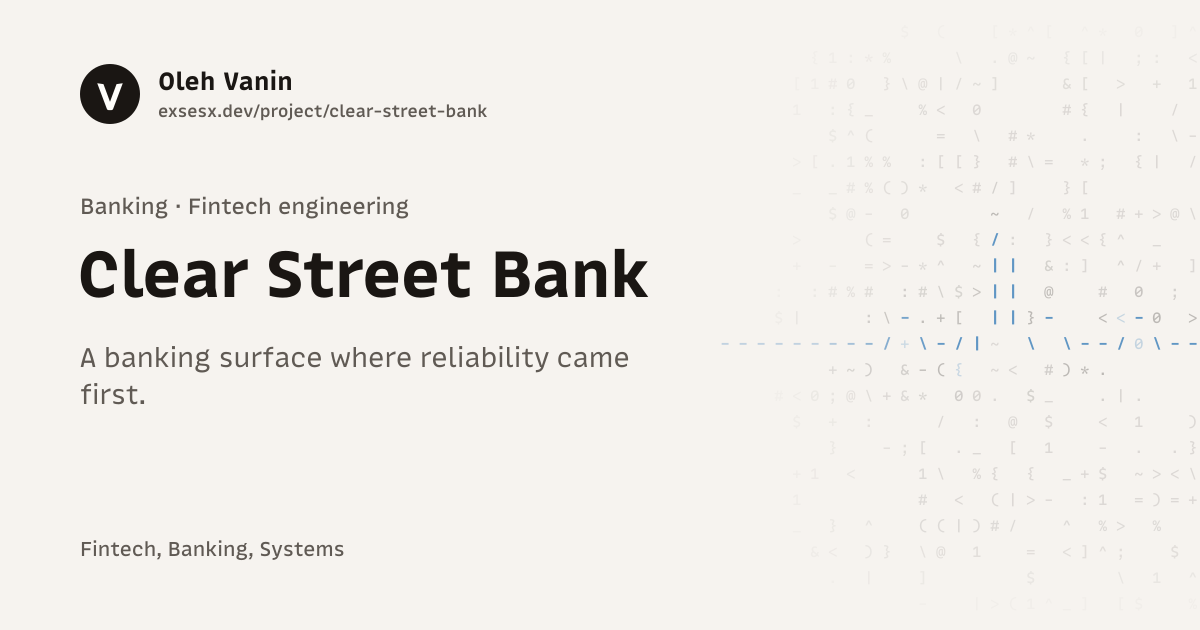
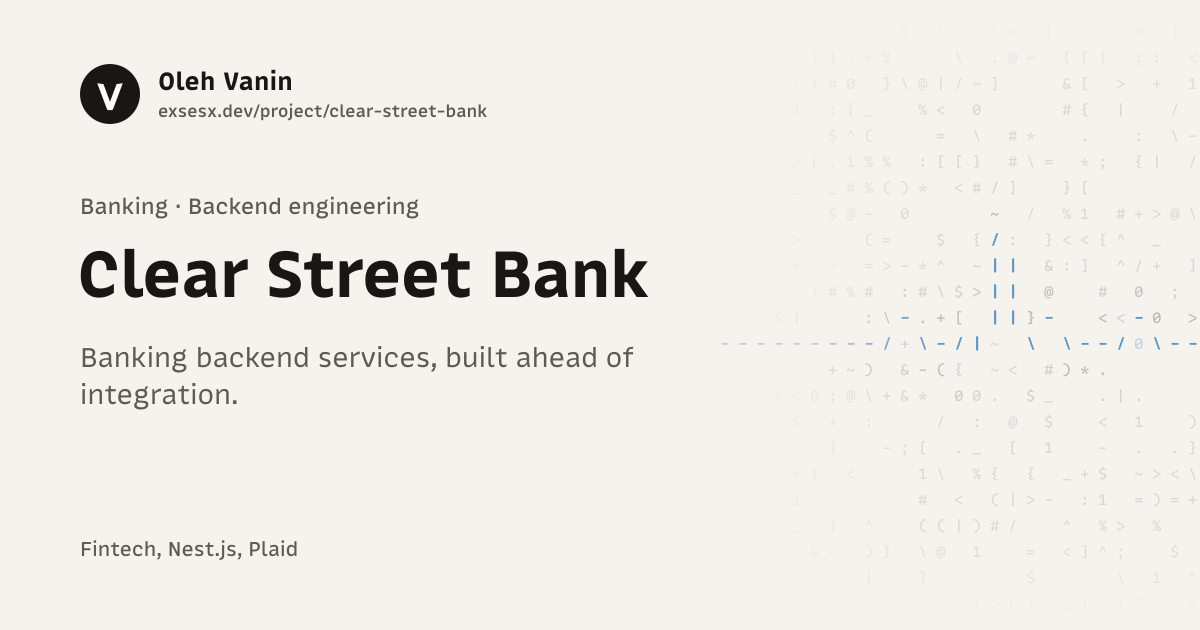
fix: tighten mobile mastheads and trim project copy
- mobile masthead padding goes from pt-52 to pt-36 on home and projects
- rewrite the Clear Street Bank entry from owner-supplied facts, with
  one confidentiality line
- drop CoinMENA bullets that restated its outcome and other filler

Changed region(s): [[0.0617, 0.5429, 0.5242, 0.6635], [0.1542, 0.3016, 0.37, 0.3619], [0.1233, 0.8444, 0.2775, 0.9048]]

diff --git a/src/lib/projects.ts b/src/lib/projects.ts
@@ -129,7 +129,7 @@ export const projects: Project[] = [
         "Led a cross-functional team of about 7 to 9 while staying hands-on, setting priorities with the CTO and coordinating delivery with the PM. Later, as a consultant, documented the migration in phases across off-hours windows, with cutover failure scenarios and mitigations, and presented it to the team.",
       ],
       outcome:
-        "A live commerce system where a bad architecture call would have hit real kitchens, drivers, and payments.",
+        "A live commerce system where a bad architecture call would have hit the kitchens, drivers, and payments.",
       scope: ["Solution architecture", "Team leadership", "Preview environments", "Delivery operations"],
     },
     accent: "rose",
@@ -143,25 +143,22 @@ export const projects: Project[] = [
     id: "project-clear-street-bank",
     slug: "clear-street-bank",
     name: "Clear Street Bank",
-    role: "Fintech engineering",
+    role: "Backend engineering",
     // No stable public URL for the product I worked on.
     href: null,
     period: "Banking",
-    description:
-      "Banking product work where reliability and restraint mattered more than flash. The specifics stay private.",
-    impact: "Fintech-facing product engineering; the details are confidential.",
-    tags: ["Fintech", "Banking", "Systems"],
+    description: "Backend work on a banking product, built against other teams' contracts. The specifics stay private.",
+    impact: "Nest.js microservices and the business logic around a Plaid integration.",
+    tags: ["Fintech", "Nest.js", "Plaid"],
     detail: {
-      headline: "A banking surface where reliability came first.",
-      context:
-        "I can't say much about the specifics, but it was the same careful product engineering any banking surface needs.",
+      headline: "Banking backend services, built ahead of integration.",
+      context: "I was on a team of backend engineers. Most of my work was in Nest.js microservices.",
       contribution: [
-        "Built fintech-facing product surfaces with reliability and restraint as the defaults.",
-        "Kept the implementation practical: clear surfaces, real service detail, low-noise UX.",
-        "Stayed inside what I can share publicly without touching confidential specifics.",
+        "Implemented contracts from other teams before the integration, which happened later.",
+        "Integrated Plaid and wrote the business logic around Plaid and the other services.",
       ],
-      outcome: "Solid banking product work that I keep deliberately light on public detail.",
-      scope: ["Fintech product UI", "Confidential delivery", "Service reliability"],
+      outcome: "I assembled the pieces against agreed contracts and schemas rather than live counterparts.",
+      scope: ["Nest.js microservices", "Plaid integration", "Contract-first services"],
     },
     accent: "steel",
     media: {
@@ -189,11 +186,9 @@ export const projects: Project[] = [
       contribution: [
         "Built the asynchronous frontend architecture for real-time verification, so verification status and updates reached users as they happened.",
         "Delivered the functionality required for regulatory certification by the deadline.",
-        "Worked in a regulated setting where correctness and timing were both business-critical.",
-        "Adapted fast as requirements shifted on the way to a key certification milestone.",
       ],
       outcome:
-        "Met a critical regulatory certification deadline, clearing the way for operations across the MENA region.",
+        "Verification status reached users as it happened, and the certification functionality shipped by the deadline.",
       scope: ["Async frontend architecture", "Real-time verification", "Regulated crypto"],
     },
     accent: "mint",
@@ -255,7 +250,7 @@ export const projects: Project[] = [
         "Exposed PostgreSQL stored procedures as GraphQL APIs with PostGraphQL, so the React frontend could query them directly.",
         "Turned utility-management requirements into maintainable frontend screens.",
       ],
-      outcome: "A frontend and data-layer move that kept the live product working for everyday users.",
+      outcome: "A frontend and data-layer move that kept the live product working.",
       scope: ["AngularJS to React", "PostGraphQL APIs", "Utility operations"],
     },
     accent: "violet",

diff --git a/src/app/(site)/page.tsx b/src/app/(site)/page.tsx
@@ -45,7 +45,7 @@ const experienceHighlights = [
     role: "Solution architecture and full-stack delivery",
     period: "2021 – 2026",
     detail:
-      "Led Tso 3.0's technical direction and cross-functional team while staying hands-on. Built isolated branch previews so the CTO, QA, and PM could validate changes before merge.",
+      "Led Tso 3.0's technical direction and cross-functional team. Built isolated branch previews so the CTO, QA, and PM could validate changes before merge.",
   },
   {
     company: "S-PRO",
@@ -192,7 +192,7 @@ export default function HomePage() {
             header's first 64px, and the trace leaves the headline's pulse mark. */}
         <section aria-labelledby="hero-title" className="relative isolate" data-ascii-host="">
           <AsciiField className="absolute inset-x-0 top-16 bottom-0 -z-10" />
-          <Container className="pb-section-s pt-52 lg:grid lg:grid-cols-12 lg:gap-x-8 lg:pt-32">
+          <Container className="pb-section-s pt-36 lg:grid lg:grid-cols-12 lg:gap-x-8 lg:pt-32">
             <div className="min-w-0 lg:col-span-7">
               <h1
                 id="hero-title"
@@ -356,7 +356,7 @@ export default function HomePage() {
           <Container className="grid gap-12 lg:grid-cols-12 lg:gap-x-8">
             <div className="lg:col-span-5">
               <h2 id="experience-title" className="section-title max-w-[22ch] lg:sticky lg:top-32">
-                Recent roles and what I did in each
+                Recent roles
               </h2>
             </div>
             <ol className="border-t border-border lg:col-span-7">

diff --git a/src/app/(site)/projects/page.tsx b/src/app/(site)/projects/page.tsx
@@ -88,7 +88,7 @@ export default function Projects() {
             title stays on one line so the first rows of the list still reach the fold. */}
         <header className="relative isolate" data-ascii-host="">
           <AsciiField className="absolute inset-x-0 top-16 bottom-0 -z-10" />
-          <Container className="grid gap-8 pb-section-s pt-52 lg:grid-cols-12 lg:gap-x-8 lg:pt-32">
+          <Container className="grid gap-8 pb-section-s pt-36 lg:grid-cols-12 lg:gap-x-8 lg:pt-32">
             <div className="min-w-0 lg:col-span-9">
               <div className="motion-rise" data-ascii-avoid="">
                 <h1 id="projects-title" className="display-title text-display font-black text-foreground">

diff --git a/src/components/ContactBand.tsx b/src/components/ContactBand.tsx
@@ -26,7 +26,7 @@ export default function ContactBand({ id, title, children }: { id: string; title
             className={buttonVariants({ variant: "default", size: "lg" })}
           >
             <CalendarDays data-icon="inline-start" strokeWidth={2.4} />
-            Schedule a conversation
+            Book a call
           </a>
           <ul className="flex flex-wrap gap-3" aria-label="Elsewhere">
             <li>
